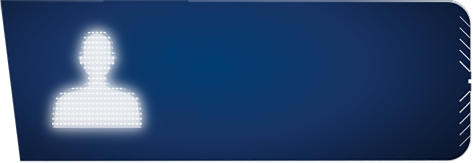
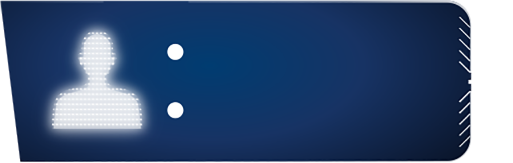
调整界面

diff --git a/pages/shootView/shootView.vue b/pages/shootView/shootView.vue
@@ -1,11 +1,6 @@
 <template>
 	<view class="container">
 		<z-nav-bar :bgColor="bgColorList" backState=1000 home='false'>检测</z-nav-bar>
-		<!-- 		<z-nav-bar backState="1000" type='transparentFixed' fontColor='#000' transparentFixedFontColor='#000'
-			title='检测'></z-nav-bar> -->
-		<!-- 		<view class="back">
-			<image class="back-img" mode="widthFix" :src="'../../static/SY_09A_Mas.png'"></image>
-		</view> -->
 		<view class="main" v-if="showFront">
 			<view class="frontPic" :style="frontImageStyle">
 				<image v-if="bodyImgUrl!=''" :src="bodyImgUrl" mode="widthFix"></image>
@@ -43,21 +38,22 @@
 			<view class="uni-common-mt">
 				<view class="datainfo flex" v-if="showFront">
 					<view class="back1" @click="handleSideClick">
-						<image class="side1Img" src="../static/camera/SY_09_ButCMSJ01.png" mode="widthFix"></image>
+						<image class="side1Img" src="../static/camera/SY_09_ButCM01.png" mode="widthFix"></image>
 						<view v-if="false">侧面数据</view>
 					</view>
 					<view class="back2 flex1 flex align-center">
 						<image mode="widthFix" class="img2back" src="../../static/camera/SY_09_ButZMSJ02.png">
 						</image>
 						<view class="left-part">
-							<image class="front1Img" v-if="false" src="../static/adjust/face02.png" mode="widthFix">
+							<image class="front1Img" v-if="false" src="../static/camera/SY_09_ButZMSJ02.png"
+								mode="widthFix">
 							</image>
 							<view v-if="false">正面数据</view>
 						</view>
 						<view class="right-info-part">
-							<view class=""><label class="title">●头枕高度:</label><label
+							<view class=""><label class="title">头枕高度:</label><label
 									class="">{{frontRightPart}}{{unitDesc}}</label></view>
-							<view><label class="title">●颈枕高度:</label>{{shoulderSpace}}{{unitDesc}}</view>
+							<view><label class="title">颈枕高度:</label>{{shoulderSpace}}{{unitDesc}}</view>
 							<!-- <view><label class="title">●左耳到左肩:</label>{{frontLeftPart}}{{unitDesc}}</view> -->
 						</view>
 					</view>
@@ -69,9 +65,9 @@
 					</view>
 					<block></block>
 					<view class="right-info-part">
-						<view class=""><label class="title">●头枕高度:</label><label
+						<view class=""><label class="title">头枕高度:</label><label
 								class="">{{frontRightPart}}{{unitDesc}}</label></view>
-						<view><label class="title">●颈枕高度:</label>{{shoulderSpace}}{{unitDesc}}</view>
+						<view><label class="title">颈枕高度:</label>{{shoulderSpace}}{{unitDesc}}</view>
 						<!-- <view><label class="title">●左耳朵到左肩:</label>{{frontLeftPart}}{{unitDesc}}</view> -->
 						<!-- 					<view><label class="title">脖子中心到左肩:</label>{{frontLeftNeckPart}}{{unitDesc}}</view>
 					<view><label class="title">脖子中心到右肩:</label>{{frontRightNeckPart}}{{unitDesc}}</view> -->
@@ -121,23 +117,24 @@
 			</view>
 			<view class="uni-common-mt">
 				<view class="datainfo flex">
-					<view class="back1" @click="handleFrontClick()">
-						<image class="front2Img" src="../static/camera/SY_09_ButCMSJ01.png" mode="widthFix"></image>
-					</view>
-					<view class="back2 flex1 flex align-center">
-						<image mode="widthFix" class="img2back" src="../../static/camera/SY_09_ButZMSJ02.png">
-						</image>
-						<view class="left-part">
+					<view class="back1 flex1 flex align-center">
+						<view class="left-side-part">
+							<image mode="widthFix" class="img2back" src="../../static/camera/SY_09_ButCM02.png">
+							</image>
+							<view class="side-info-part">
 
+								<view class=""><label class="title">头枕高度:</label><label
+										class="">{{sideLittleNeckBack}}{{unitDesc}}</label>
+								</view>
+								<view class=""><label class="title">颈枕高度:</label><label
+										class="">{{sideLittleBlockBack}}{{unitDesc}}</label>
+								</view>
+							</view>
 						</view>
-						<view class="right-info-part">
-							<view class=""><label class="title">●头枕高度:</label><label
-									class="">{{sideLittleNeckBack}}{{unitDesc}}</label>
-							</view>
-							<view class=""><label class="title">●颈枕高度:</label><label
-									class="">{{sideLittleBlockBack}}{{unitDesc}}</label>
-							</view>
+						<view class="right-side-part">
 							<!-- <view><label class="title">●后背与耳朵:</label>{{sideEarBack}}{{unitDesc}}</view> -->
+							<image class="front2Img" @click="handleFrontClick()"
+								src="../static/camera/SY_09_ButZM01.png" mode="widthFix"></image>
 						</view>
 					</view>
 				</view>
@@ -1026,7 +1023,7 @@
 								.bodyImgOriginWidth) +
 							'px')
 						this.$set(this.headPointWrapStyle, '--bottom', (this.fixedImgWidth * Math.abs(points[
-								1] -
+									1] -
 								this
 								.bodyImgOriginHeight) / this.bodyImgOriginWidth) +
 							'px')
@@ -1035,7 +1032,7 @@
 								.bodyImgOriginWidth) +
 							'px')
 						this.$set(this.neckPointWrapStyle, '--bottom', (this.fixedImgWidth * Math.abs(points[
-								3] -
+									3] -
 								this
 								.bodyImgOriginHeight) / this.bodyImgOriginWidth) +
 							'px')
@@ -1045,7 +1042,7 @@
 								.bodyImgOriginWidth) +
 							'px')
 						this.$set(this.backPointWrapStyle, '--bottom', (this.fixedImgWidth * Math.abs(points[
-								5] -
+									5] -
 								this
 								.bodyImgOriginHeight) / this.bodyImgOriginWidth) +
 							'px')

diff --git a/pages/shootView/shootView.scss b/pages/shootView/shootView.scss
@@ -1,6 +1,10 @@
+
+.container{
+	background-color: rgb(17, 30, 63);
+	height: 100%;
+}
 .main {
-		margin-left: 30rpx;
-		margin-right: 30rpx;
+
 		position: relative;
 		top: 0;
 		z-index: 1;
@@ -39,8 +43,8 @@
 	.datainfo{
 		.back1{
 			// background-color: #5B7897;
-			width: 180rpx;
-			height: 180rpx;
+			width: 243rpx;
+			height: 162rpx;
 			text-align: center;
 			// padding: 20rpx;
 			border-top-left-radius: 20rpx;
@@ -52,10 +56,48 @@
 			}
 		}
 		
+		.left-side-part{
+			width: 513rpx;
+			height: 163rpx;
+			position: absolute;
+			top: 0rpx;
+			image{
+				width: 100%;
+				height: 100%;
+			}
+		}
+		
+		.right-side-part{
+			padding-left: 0rpx;
+			position: relative;
+			top: 0rpx;
+			left: 493rpx;
+			z-index: 10;
+			width: 242rpx;
+			height: 162rpx;
+		}
+		
+		
+		.side-info-part{
+			position: absolute;
+			top: 26rpx;
+			left: 233rpx;
+			.title {
+				line-height: 55rpx;
+			}
+		}
+		
+		.back-side2
+		{
+			padding:20rpx;
+			left: 20rpx;
+			position: absolute;
+		}
+		
 		.back2{
 			// background-color: rgba(200, 200, 200, 0.7);
 			padding:20rpx;
-			margin-left: 20rpx;
+			margin-left: -10rpx;
 			border-top-right-radius: 20rpx;
 			border-bottom-right-radius: 20rpx;
 			color: #fff;
@@ -66,7 +108,7 @@
 			}
 			.img2back{
 				position: absolute;
-				width: 473rpx;
+				width: 513rpx;
 				height: 163rpx;
 				left: -20rpx;
 				top: 0rpx;
@@ -76,12 +118,13 @@
 		.right-info-part{
 			padding-left: 20rpx;
 			position: relative;
-			top: -10rpx;
+			top: 0rpx;
+			left: 20rpx;
 			z-index: 10;
 
 		}
 		.side1Img{
-			width: 203rpx;
+			width: 243rpx;
 			height: 162rpx;
 		}
 		.front1Img{
@@ -94,7 +137,7 @@
 			// height: 162rpx;
 		}
 		.front2Img{
-			width: 203rpx;
+			width: 242rpx;
 			height: 162rpx;
 		}
 	}
@@ -390,10 +433,12 @@
 			letter-spacing: 5rpx;
 		}
 	}
-
+ 
 	.popup-container {
 		position: relative;
 		margin: 20rpx;
+
+		
 
 		.titleimg {
 			width: 106rpx;
